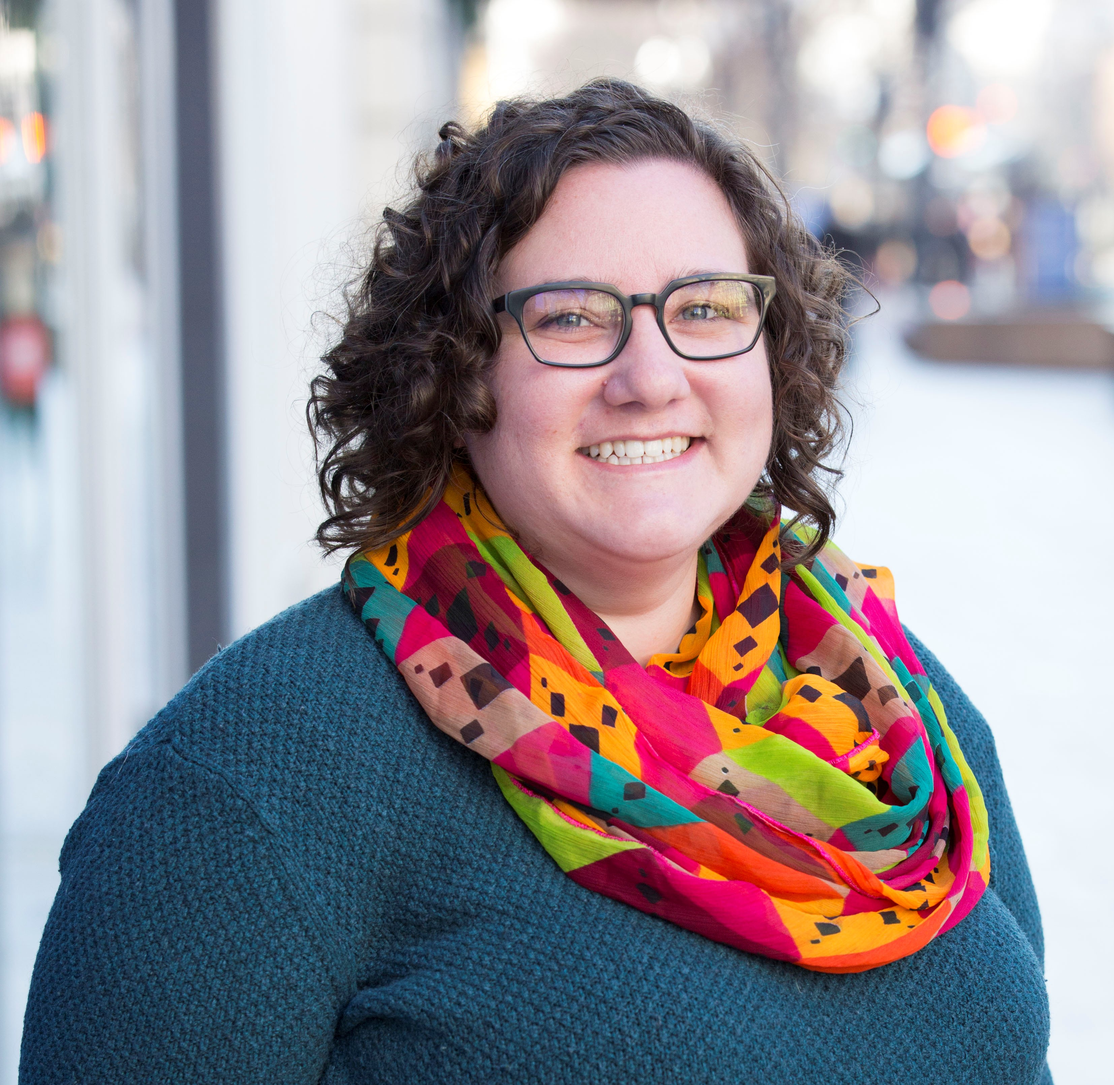
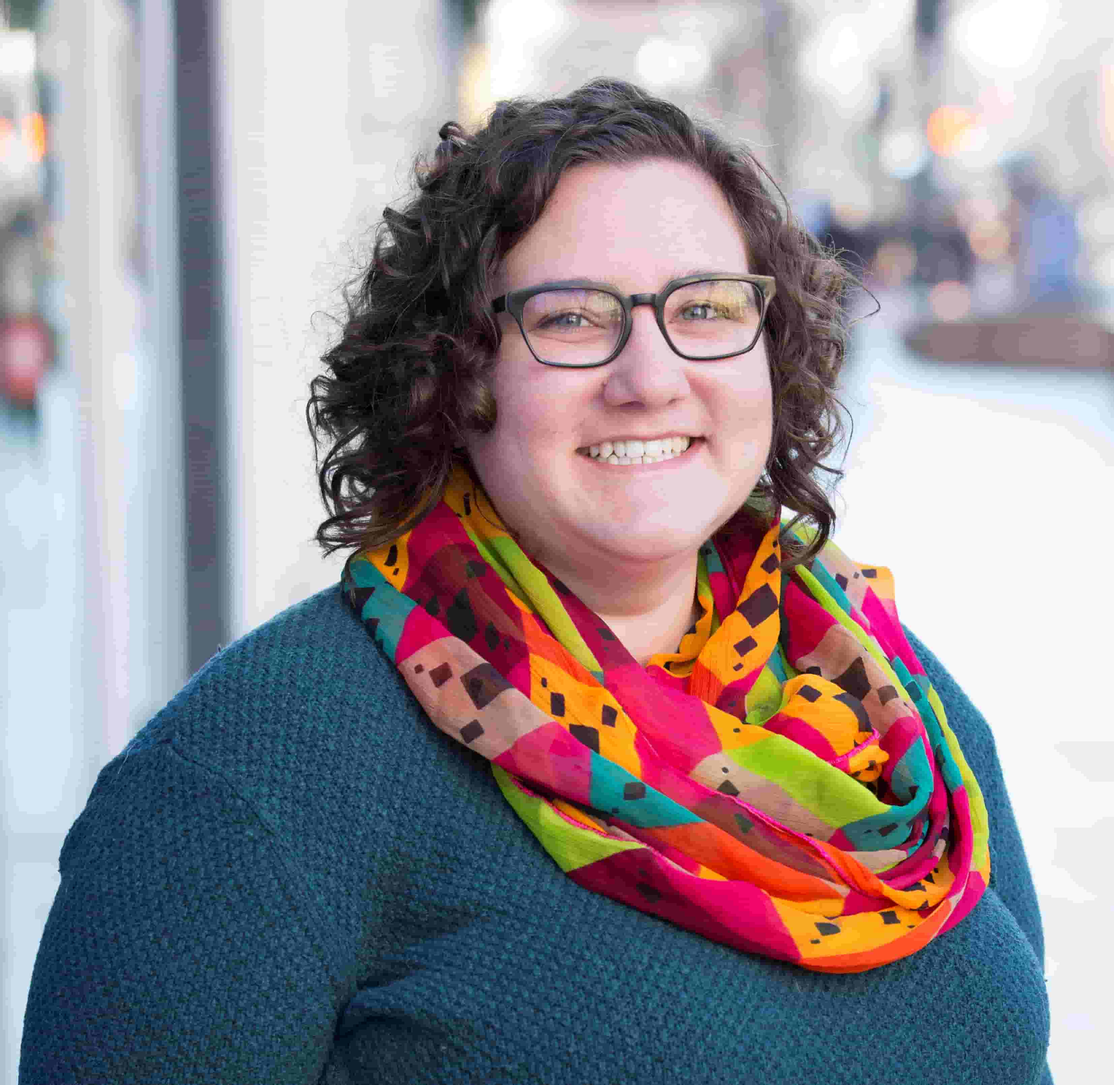
compressed Katherine's headshot

diff --git a/server/routes/staff.ts b/server/routes/staff.ts
@@ -27,7 +27,7 @@ export function context(
                 {
                     name: "Katherine Zachara",
                     position: "Executive Director",
-                    headshotPath: "/static/img/staff/KZ.JPG"
+                    headshotPath: "/static/img/staff/kz.jpg"
                 },
                 {
                     name: "Denita Bearden",
